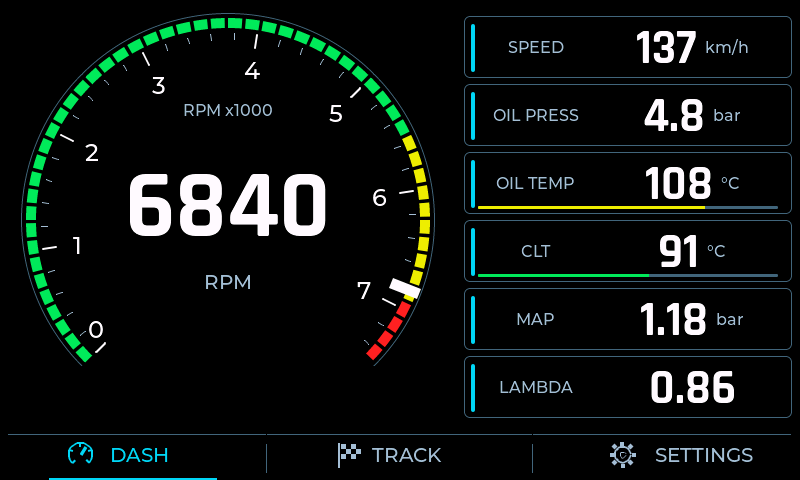
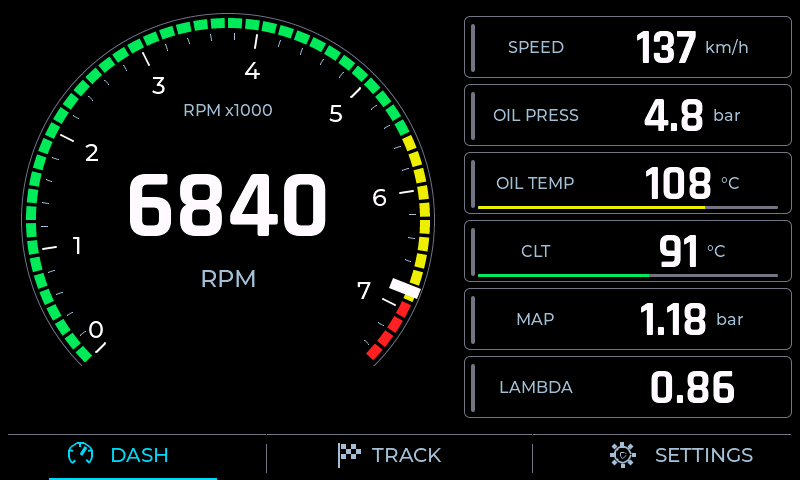
Document validated UI transitions and configurable Analog firmware with captures

diff --git a/docs/ui/ui-transition-validation.md b/docs/ui/ui-transition-validation.md
@@ -1,0 +1,61 @@
+# UI transitions and configurable Analog center
+
+Test candidate source: `19a678a1b88c5752691d386b741c9df1dad2c1a6`,
+branch `dashboard-dev`. This candidate is not a public release.
+
+## Changes
+
+- Prepare retained DASH/TRACK layouts and cached telemetry before loading the
+  destination screen. Successful tile saves use the same preparation path.
+- Strip's fine tick marks are vertical, matching its upright rectangular LEDs.
+- Frames and tile rails use neutral grey `#707780`; navigation cyan and semantic
+  warning/temperature/RPM colors are retained.
+- Analog's 54 ring segments flash red/dim at 4 Hz above the configured flash
+  threshold. Its moving rectangular index remains white.
+- Analog's center is normal editable tile slot 6. Long press opens the existing
+  editor for parameter selection, visibility, warnings, decimals and supported
+  temperature/flag options. Each page retains independent settings. The RPM
+  ring and index do not change source when the center parameter changes.
+- Existing schema-v8 storage already contains 14 slots per alternate bank.
+  Previously unused Analog slot 6 defaults to visible RPM; no storage-layout
+  change or migration is needed. Full-image flashing still erases stored data.
+
+## GitHub verification
+
+- [Native tests and firmware build](https://github.com/barcu00/DIY-dash-5/actions/runs/35330713989).
+  Native tests: 198 passed. Python packaging/UI contract tests: 24 passed.
+- [Real LVGL production tests](https://github.com/barcu00/DIY-dash-5/actions/runs/35330714000):
+  four first-frame/editor integration scenarios and 27 scenes in each of two
+  buffer modes passed. Partial/direct PNGs are pixel-identical. Incremental/full
+  rendering comparisons passed, including ring flash phases and invalid data.
+- Red regression runs demonstrated the stale layout, delayed saved visibility,
+  tilted Strip ticks, cyan rails and missing Analog-center editing/ring flashing
+  before their fixes.
+- Analog flash has a 130000-pixel dirty-render budget; Modern retains 120000.
+  These are host rendering budgets, not on-device refresh-rate measurements.
+- Read-only review found no concrete Critical/Important defect. Additional tests
+  cover TRACK return, center editing/persistence and white-index flash colors.
+
+## Firmware image
+
+The firmware workflow above completed target compilation and full-image packaging.
+Its `DIY-Dash-firmware` artifact contains
+`DIY-Dash-ESP32-S3-Touch-LCD-5-full.bin`, 16777216 bytes. Flash at `0x0` on
+Waveshare ESP32-S3-Touch-LCD-5 non-B. **This overwrites NVS settings.**
+
[1 lines of base64/hex data omitted]
+
+Static RAM: 49320 / 327680 bytes (15.1%); application flash:
+836000 / 6553600 bytes (12.8%). These figures exclude dynamic memory and PSRAM.
+RGB framebuffers remain 1500 KiB and the LVGL PSRAM pool remains 512 KiB.
+
+## Physical validation remains necessary
+
+Test switching layouts and saving tile parameters/visibility on the actual board.
+The first-frame software defects are covered above; this does not prove all
+physical RGB disturbances during a flash write are eliminated. Espressif notes
+that RGB bounce-buffer operation can be disrupted while external-memory cache
+is disabled for NVS writes. See the
+[ESP-IDF RGB LCD documentation](https://docs.espressif.com/projects/esp-idf/en/v5.2/esp32s3/api-reference/peripherals/lcd.html).
+If save-time artifacts remain, capture USB serial output at 115200 baud and
+note whether they occur during `SAVING` or on return to the data page.

diff --git a/README.md b/README.md
@@ -54,10 +54,14 @@ framebuffer captures**, rendered on GitHub with the firmware's TileView,
 RpmScaleView, ShiftLightView and navigation code. No UI reconstruction is used.
 Black panels, condensed white digits, fine blue-grey frames and cyan navigation
 follow the approved visual prototypes. Analog D uses a colored ring, a moving
-white rectangular index and centered RPM. Modern Motorsport E adds a continuous
+white rectangular index and a configurable center tile (RPM by default).
+Hold the center tile to choose a parameter, visibility and warning settings;
+the ring and index always remain RPM-driven. At the flash threshold, the entire
+segmented ring flashes red/dim at 4 Hz while the index remains white.
+Modern Motorsport E adds a continuous
 upper semicircle with dim future zones and a white progress cap. Side Gear
 shares one RPM/speed frame; Strip uses identical upright rectangular blocks without a logo.
-Tile rails are cyan, compact-row labels and values are optically centered, and
+Tile rails and frames are neutral grey, compact-row labels and values are optically centered, and
 scale labels always use whole thousands. Physical performance still needs board testing.
 
 | Analog Style | Side Gear | Strip Style |
@@ -79,7 +83,9 @@ Configuration schema v8 migrates v6/v7 settings while retaining the original
 layout banks and warning-sound preference; the new layout starts with its own defaults.
 The display now uses two complete RGB framebuffers with VSYNC-controlled swaps,
 a 512 KiB LVGL pool in PSRAM, and bounded Modern Motorsport flash redraws.
-See [display stability validation and test firmware](docs/ui/display-stability-validation.md)
+Returning from settings or a successful tile save prepares the destination
+layout and current values before displaying it, avoiding a stale first frame.
+See [UI transition and Analog validation](docs/ui/ui-transition-validation.md)
 for the successful build, full-image checksum and flashing precautions.
 The settings/editor/flag/modal illustrations below remain geometry previews,
 not full-production framebuffer captures.

diff --git a/design/production-preview/README.md b/design/production-preview/README.md
@@ -13,10 +13,18 @@ captions. Assertions test flash colors, flag-caption separation, digit width and
 unavailable-caption bounds. It does not render the full settings/editor screens,
 simulate CAN hardware, or replace physical touch/smoothness testing.
 
-All 25 scenes run in partial-buffer and full-frame double-buffer direct modes;
+All 25 layout scenes plus two Analog flash scenes run in partial-buffer and
+full-frame double-buffer direct modes;
 their PNGs must be pixel-identical. Modern flash-off is checked across the
 entire semicircle, and its actual dirty-pixel budget is limited to 120000 pixels.
 Strip connected components must be identical upright 18 × 28 pixel rectangles.
+Thin Strip ticks must remain vertical. Analog flash checks the whole segmented
+ring, its permanent white index and a 130000-pixel dirty-redraw budget.
+
+The transition executable also compiles production `ui.cpp`, replacing only
+the physical brightness output. It drives actual LVGL events to test DASH/TRACK
+layout returns, tile-save visibility and Analog-center parameter editing before
+the next scheduled update. Native repository tests verify center persistence.
 
 Preview data assignments follow the actual saved/default banks; they may differ
 from the decorative parameters used in the approved static prototypes.
